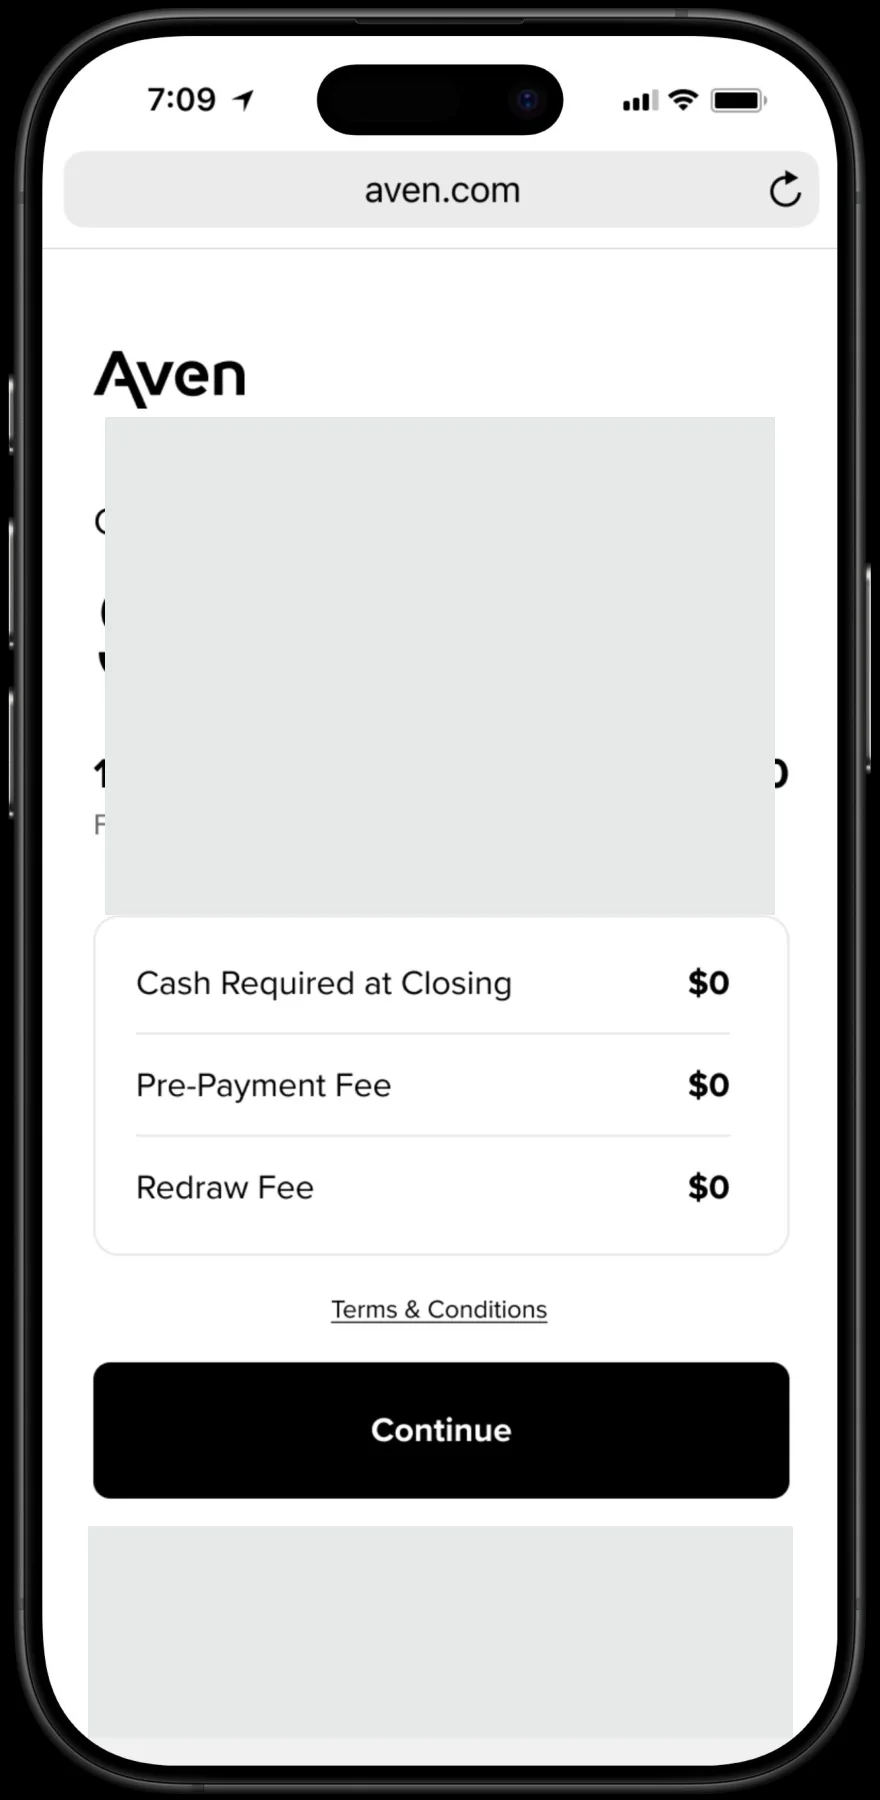
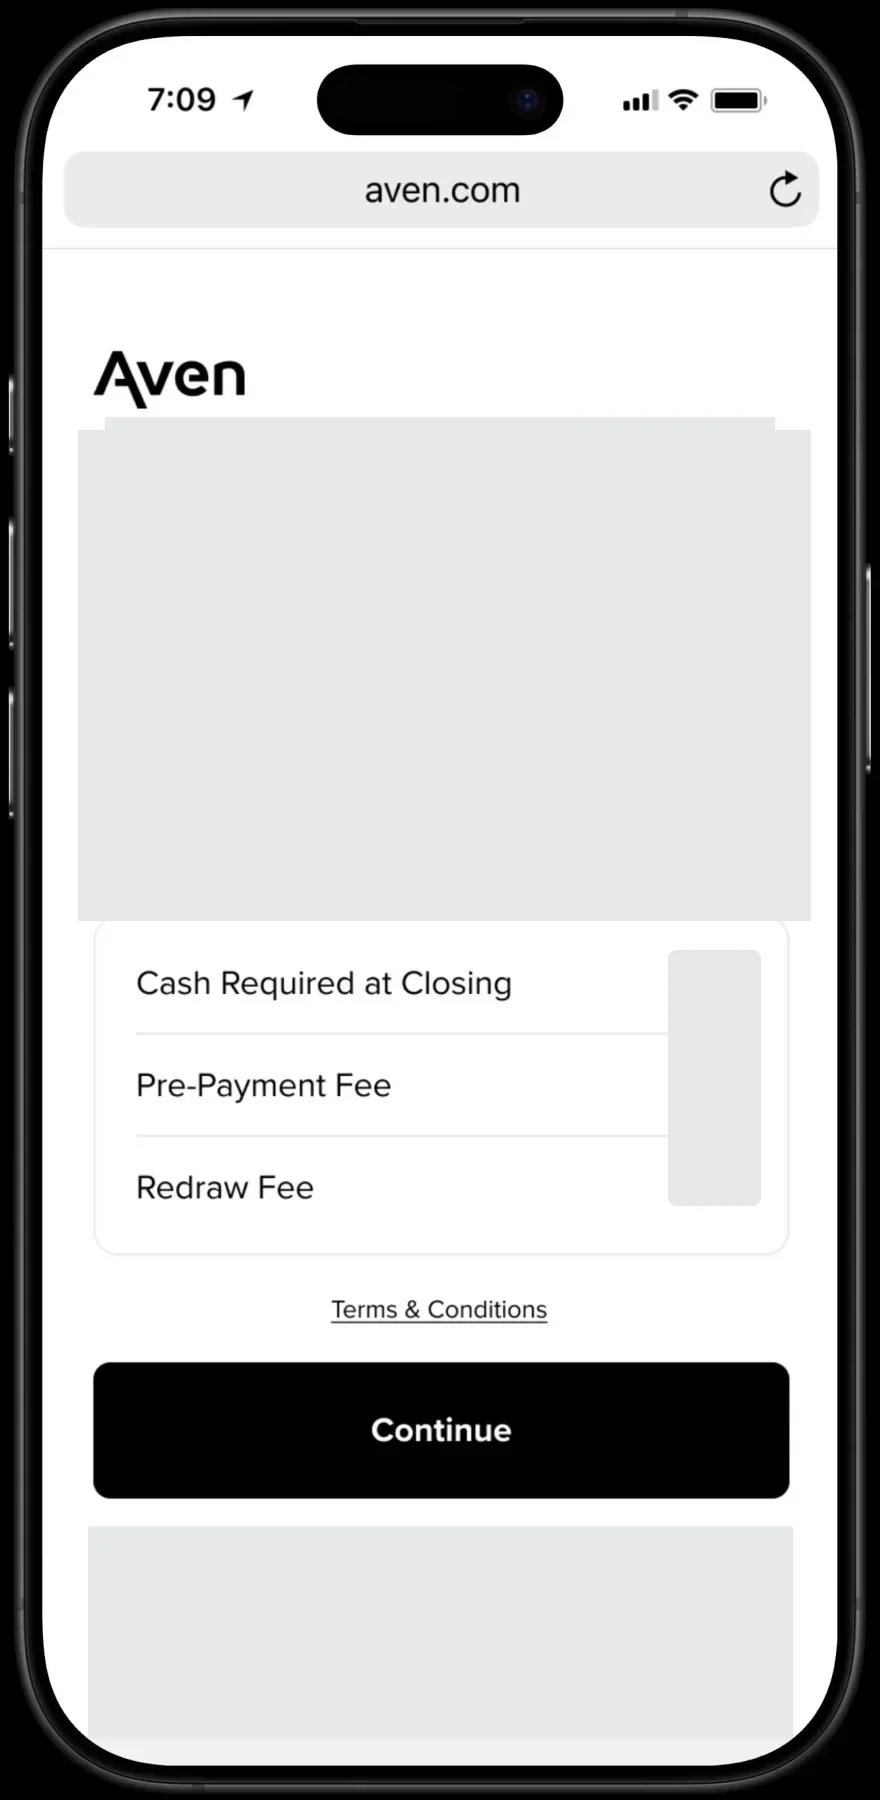
Keep the mobile sticky CTA from covering the walkthrough timeline.

Changed region(s): [[0.7364, 0.5289, 0.8898, 0.6844], [0.8591, 0.2178, 0.9205, 0.5289], [0.092, 0.2178, 0.1227, 0.5289]]

diff --git a/public/app.js b/public/app.js
@@ -161,6 +161,8 @@
   const titleEl = document.getElementById("walkTitle");
   const lineEl = document.getElementById("walkLine");
   const bodyEl = document.getElementById("walkBody");
+  const copyLive = document.querySelector(".walk-copy");
+  if (copyLive) copyLive.setAttribute("aria-live", "polite");
   const prevBtn = document.getElementById("walkPrev");
   const nextBtn = document.getElementById("walkNext");
   const times = document.getElementById("walkTimes");
@@ -217,17 +219,30 @@
   const heroCta = document.getElementById("heroCta");
   if (sticky && heroCta && "IntersectionObserver" in window) {
     const mobile = window.matchMedia("(max-width: 850px)");
-    const io = new IntersectionObserver((entries) => {
-      const show = mobile.matches && !entries[0].isIntersecting && window.scrollY > 120;
+    let heroVisible = true;
+    let timesVisible = false;
+    function updateSticky() {
+      const show = mobile.matches && !heroVisible && !timesVisible && !modal.open && window.scrollY > 120;
       sticky.hidden = !show;
       document.body.classList.toggle("sticky-on", show);
-    }, { threshold: 0, rootMargin: "0px 0px -40px 0px" });
+    }
+    const io = new IntersectionObserver((entries) => {
+      entries.forEach((entry) => {
+        if (entry.target === heroCta) heroVisible = entry.isIntersecting;
+        if (entry.target === times) timesVisible = entry.isIntersecting;
+      });
+      updateSticky();
+    }, { threshold: 0, rootMargin: "0px 0px -48px 0px" });
     io.observe(heroCta);
-    mobile.addEventListener("change", () => {
-      if (!mobile.matches) {
+    if (times) io.observe(times);
+    mobile.addEventListener("change", updateSticky);
+    window.addEventListener("scroll", updateSticky, { passive: true });
+    modal.addEventListener("close", updateSticky);
+    document.querySelectorAll("[data-open]").forEach((btn) => {
+      btn.addEventListener("click", () => {
         sticky.hidden = true;
         document.body.classList.remove("sticky-on");
-      }
+      });
     });
   }
 

diff --git a/index.html b/index.html
@@ -5,7 +5,7 @@
   <meta name="viewport" content="width=device-width, initial-scale=1">
   <title>QuestRock Home Loans | Equity Access</title>
   <meta name="description" content="Explore a home equity line of credit online through Aven. QuestRock is your loan partner. Subject to eligibility and approval.">
-  <link rel="stylesheet" href="/ea-design.css?v=7">
+  <link rel="stylesheet" href="/ea-design.css?v=8">
 </head>
 <body>
   <div class="top">
@@ -237,6 +237,6 @@
   <div class="sticky-cta" id="stickyCta" hidden>
     <button class="btn" type="button" data-open>Explore my HELOC options <span>→</span></button>
   </div>
-  <script src="/app.js?v=32"></script>
+  <script src="/app.js?v=33"></script>
 </body>
 </html>

diff --git a/public/index.html b/public/index.html
@@ -5,7 +5,7 @@
   <meta name="viewport" content="width=device-width, initial-scale=1">
   <title>QuestRock Home Loans | Equity Access</title>
   <meta name="description" content="Explore a home equity line of credit online through Aven. QuestRock is your loan partner. Subject to eligibility and approval.">
-  <link rel="stylesheet" href="/ea-design.css?v=7">
+  <link rel="stylesheet" href="/ea-design.css?v=8">
 </head>
 <body>
   <div class="top">
@@ -237,6 +237,6 @@
   <div class="sticky-cta" id="stickyCta" hidden>
     <button class="btn" type="button" data-open>Explore my HELOC options <span>→</span></button>
   </div>
-  <script src="/app.js?v=32"></script>
+  <script src="/app.js?v=33"></script>
 </body>
 </html>

diff --git a/public/ea-design.css b/public/ea-design.css
@@ -539,6 +539,7 @@ dialog h2 {
   .walk-phone { order: -1; }
   .phone-window { width: min(100%, 280px); }
   .walk-times { grid-template-columns: repeat(3, 1fr); }
+  body.sticky-on { padding-bottom: 92px; }
 }
 @media (max-width: 600px) {
   .wrap { padding: 0 19px; }
@@ -573,7 +574,6 @@ dialog h2 {
   .reviews .grid3 { grid-template-columns: 1fr; }
   .review-hide-mobile { display: none; }
   .footer .between { align-items: start; flex-direction: column; }
-  body.sticky-on { padding-bottom: 84px; }
 }
 @media (min-width: 851px) {
   .sticky-cta { display: none !important; }
